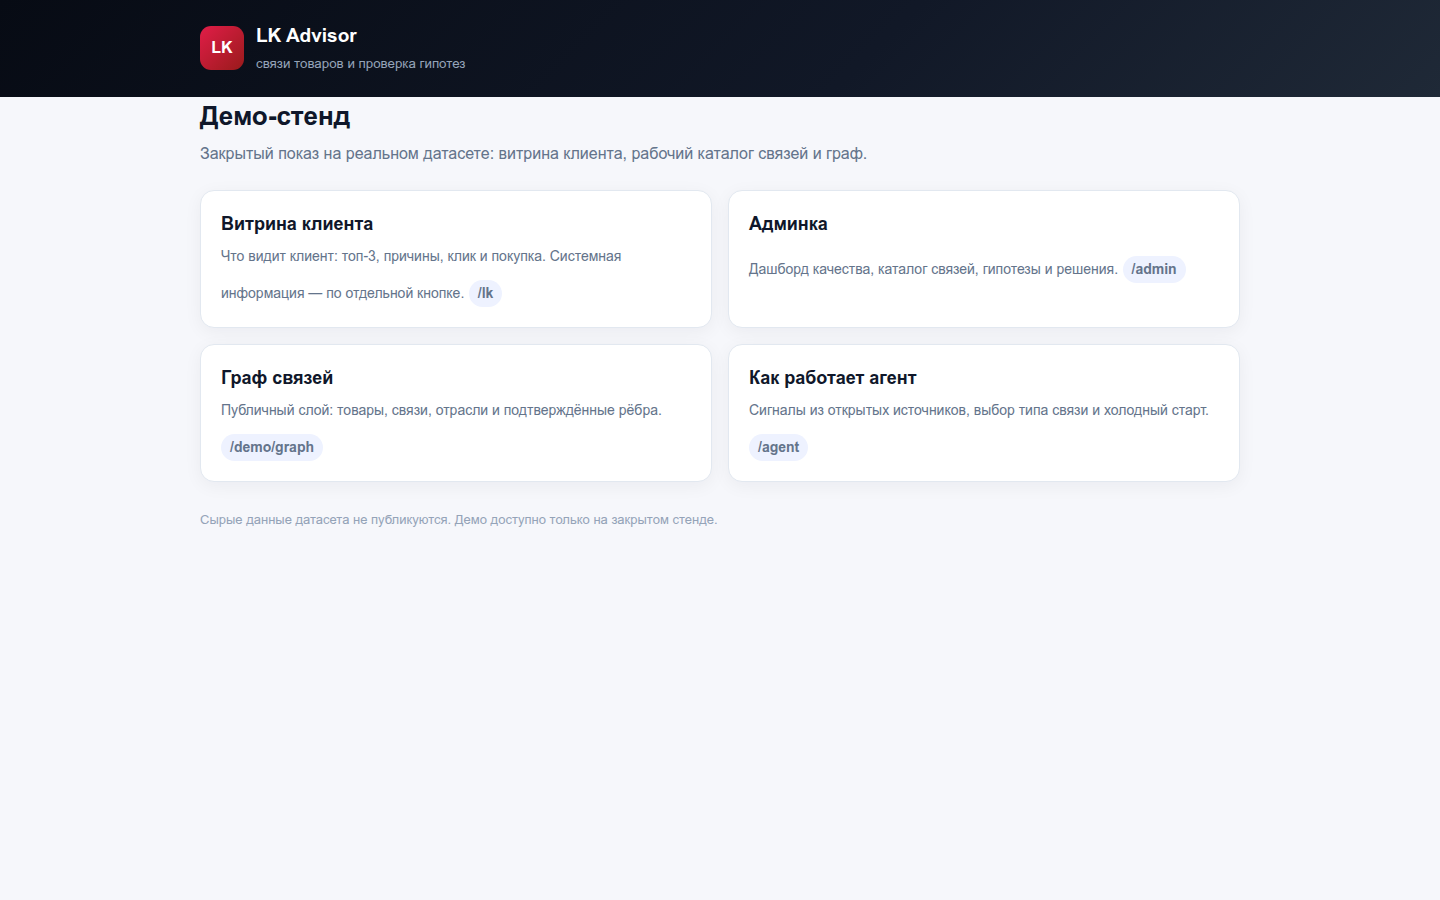
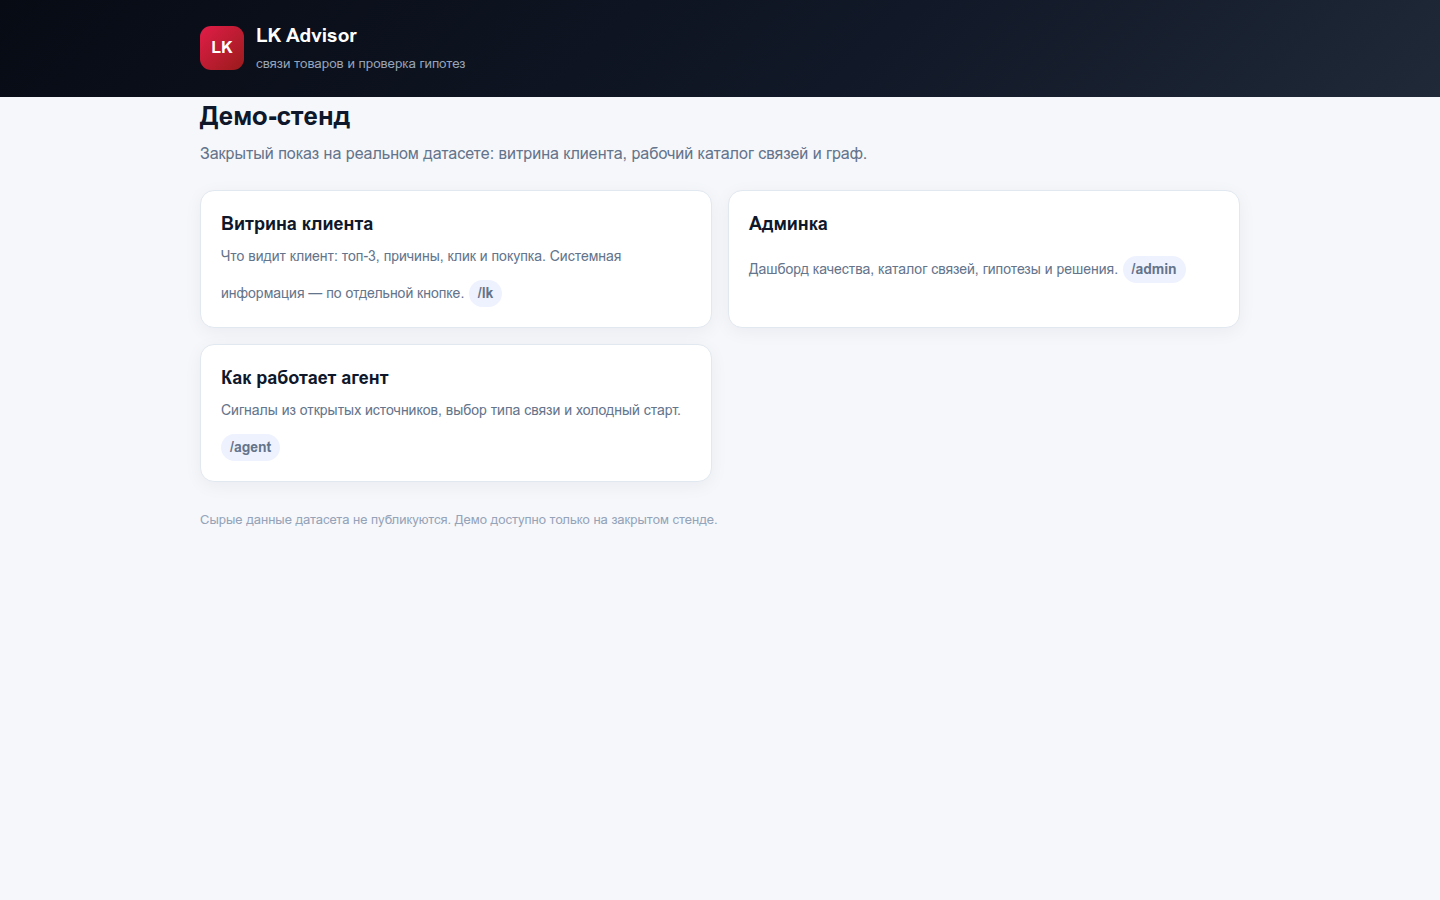
feat: remove graph from the public demo

Changed region(s): [[0.1562, 0.4044, 0.4688, 0.5289], [0.5, 0.4044, 0.8438, 0.5289]]

diff --git a/internal/httpapi/demo.go b/internal/httpapi/demo.go
@@ -89,7 +89,7 @@ a{color:var(--blue)}
 </style>
 </head>
 <body>
-<header><div class="wrap header-row"><div class="brand"><div class="logo">LK</div><div><h1>LK Advisor</h1><div class="sub">Личный кабинет · демо для жюри</div></div></div><div class="head-links"><a class="admin-link" href="/demo/graph">Граф связей</a><a class="admin-link" href="/admin#experiments">Гипотезы</a><a class="admin-link" href="/admin">Настройка правил</a></div></div></header>
+<header><div class="wrap header-row"><div class="brand"><div class="logo">LK</div><div><h1>LK Advisor</h1><div class="sub">Личный кабинет · демо для жюри</div></div></div><div class="head-links"><a class="admin-link" href="/admin#experiments">Гипотезы</a><a class="admin-link" href="/admin">Настройка правил</a></div></div></header>
 <main class="wrap">
   <div class="tabs" id="tabs"></div>
   <div class="client" id="client"></div>

diff --git a/internal/httpapi/landing_test.go b/internal/httpapi/landing_test.go
@@ -13,23 +13,9 @@ func TestLandingPageRoutesToDemoScreens(t *testing.T) {
 		t.Fatalf("status = %d", rec.Code)
 	}
 	body := rec.Body.String()
-	for _, needle := range []string{`href="/lk"`, `href="/admin"`, `href="/demo/graph"`} {
+	for _, needle := range []string{`href="/lk"`, `href="/admin"`} {
 		if !strings.Contains(body, needle) {
 			t.Errorf("landing page missing %s", needle)
-		}
-	}
-}
-
-func TestGraphPageHasConfirmationLegend(t *testing.T) {
-	h, _ := setupAPI(t)
-	rec := doJSON(t, h, http.MethodGet, "/demo/graph", "")
-	if rec.Code != http.StatusOK {
-		t.Fatalf("status = %d", rec.Code)
-	}
-	body := rec.Body.String()
-	for _, needle := range []string{"только подтверждённые", "требует проверки", "подтверждено"} {
-		if !strings.Contains(body, needle) {
-			t.Errorf("graph page missing %q", needle)
 		}
 	}
 }

diff --git a/internal/httpapi/landing.go b/internal/httpapi/landing.go
@@ -61,11 +61,6 @@ h1{font-size:26px;margin:0 0 6px}
       <span>Дашборд качества, каталог связей, гипотезы и решения.</span>
       <span class="badge">/admin</span>
     </a>
-    <a class="card" href="/demo/graph">
-      <b>Граф связей</b>
-      <span>Публичный слой: товары, связи, отрасли и подтверждённые рёбра.</span>
-      <span class="badge">/demo/graph</span>
-    </a>
     <a class="card" href="/agent">
       <b>Как работает агент</b>
       <span>Сигналы из открытых источников, выбор типа связи и холодный старт.</span>

diff --git a/internal/httpapi/router.go b/internal/httpapi/router.go
@@ -91,8 +91,6 @@ func newHandler(logger *slog.Logger, dbc *sql.DB, now func() time.Time, client *
 	mux.HandleFunc("GET /v1/admin/relations/review", h.adminReviewQueue)
 	mux.HandleFunc("POST /v1/admin/relations/review", h.adminReviewDecision)
 	mux.HandleFunc("GET /v1/admin/solo-products", h.adminSoloProducts)
-	mux.HandleFunc("GET /v1/demo/graph", h.demoGraph)
-	mux.HandleFunc("GET /demo/graph", h.demoGraphPage)
 	mux.HandleFunc("GET /static/3d-force-graph.min.js", h.graph3dAsset)
 	mux.HandleFunc("GET /v1/admin/dataset/coverage", h.adminDatasetCoverage)
 	mux.HandleFunc("GET /v1/admin/dataset/co-purchases", h.adminCoPurchases)

diff --git a/internal/httpapi/lk.go b/internal/httpapi/lk.go
@@ -302,7 +302,7 @@ body.sys-on .card.forced{background:#f8fafc;border-color:#cbd5e1}
 <body>
 <header class="top"><div class="wrap">
   <div class="brand"><div class="logo">LK</div><div><b>Мои рекомендации</b><small>личный кабинет клиента</small></div></div>
-  <nav><a href="/">Главная</a><a href="/admin">Админка</a><a href="/demo/graph">Граф</a><a href="/api">API</a></nav>
+  <nav><a href="/">Главная</a><a href="/admin">Админка</a><a href="/api">API</a></nav>
 </div></header>
 <main class="wrap">
   <h1>Что ещё может пригодиться</h1>

diff --git a/docs/user-guide.md b/docs/user-guide.md
@@ -106,22 +106,13 @@
 - таблица **«Работающие связи»** с колонкой **«Вес»** — вес падает плавно по сглаженному CTR;
 - кандидаты на проверку и разбор «что показываем / что не показываем».
 
-## 6. Граф связей
-
-![Граф](guide/graph.png)
-
-- легенда: подтверждено / требует проверки;
-- фильтры по отрасли, сегменту и типу;
-- чекбокс «только подтверждённые»;
-- клик по узлу — карточка товара и его связи.
-
-## 7. Как работает агент
+## 6. Как работает агент
 
 ![Агент](guide/agent.png)
 
 Агент проходит шаги: сигналы из карточек и открытых источников → кандидат → проверка → холодный старт. Для клиента без истории показывается популярное в отрасли.
 
-## 8. Как это устроено
+## 7. Как это устроено
 
 1. **Связи.** Строятся по совместным покупкам, документации вендоров, страницам товаров, атрибутам каталога, реестрам Минцифры и ФСТЭК.
 2. **Валидатор.** Уверенность ≥ 85% — автоприём; 70–85% — кандидат человеку; ниже 70% — карантин. Пороги настраиваются, автоприём можно отключить.
@@ -130,7 +121,7 @@
 5. **Сертификаты.** Для регулируемых отраслей включается режим «только сертифицированные»; сертификат — фильтр и бейдж, а не общий буст.
 6. **Выдача.** Предрасчитанные рекомендации для 19 011 клиентов; если предрасчёта нет — гибрид на лету.
 
-## 9. Ограничения демо
+## 8. Ограничения демо
 
 - Precision@3 — офлайн-бэктест на истории, это не живые продажи;
 - авторизации нет: стенд демонстрационный;
